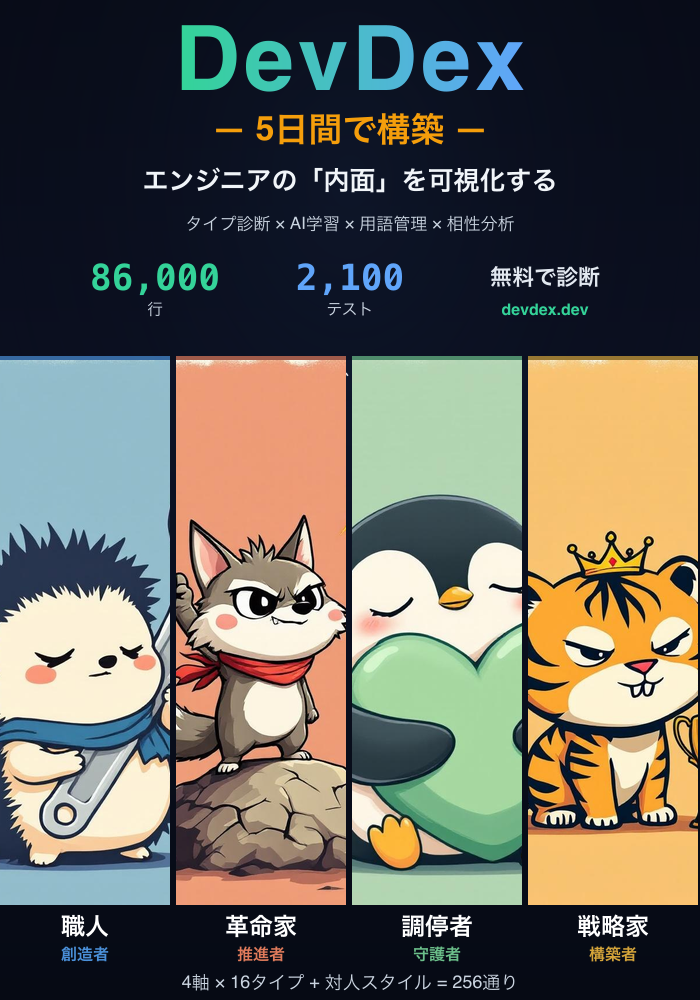
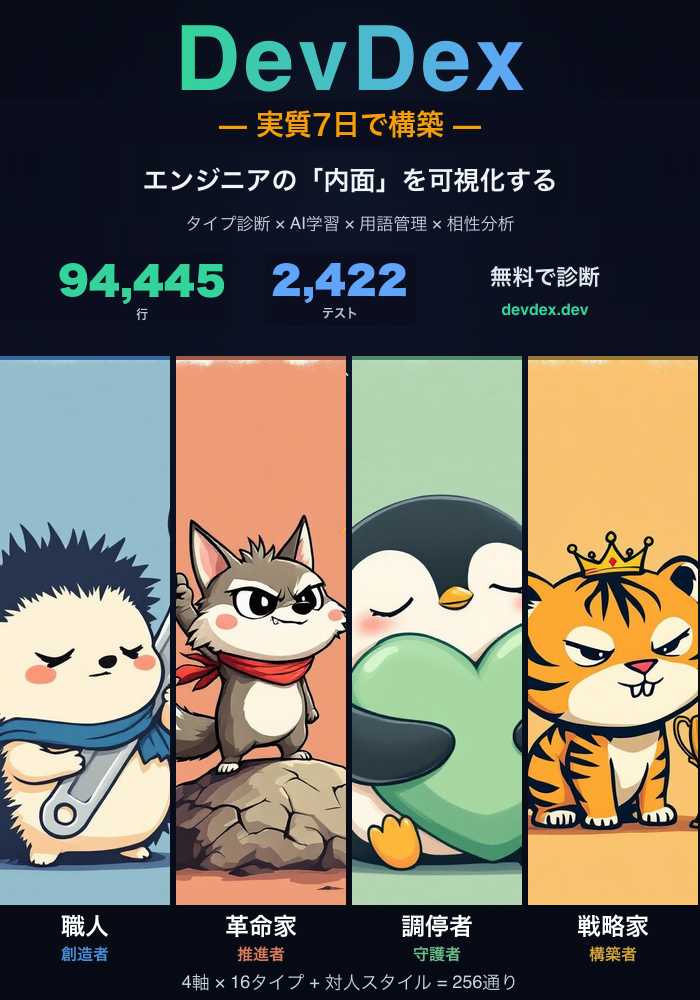
docs: DevDex最新統計に数値更新（96K行・2,350テスト・637+ Issues/PRs）

Changed region(s): [[0.3, 0.093, 0.69, 0.155], [0.09, 0.248, 0.33, 0.31], [0.39, 0.248, 0.6, 0.341]]

diff --git a/books/claude-code-devdex/01-what-is-devdex.md b/books/claude-code-devdex/01-what-is-devdex.md
@@ -3,11 +3,11 @@ title: "DevDexとは何か"
 free: true
 ---
 
-## 5日間・76時間で87,000行のSaaSを作った
+## 7日間・78時間で96,000行のSaaSを作った
 
 高校中退、通信制高校、専門卒。有名企業の勤務経験なし。25歳でフリーランスとして独立し、ダーツのプロ選手でもある。
 
-そんな経歴の人間が、Claude Codeのサブエージェント6体制を使って、**5日間・76時間**で64 API・33ページ・2,111テスト・127コンポーネントのフルスタックSaaSを構築した。1日15時間超の開発を続け、Day 4-5はダーツプロイベントの合間にスマホからClaude Codeへ指示を出しながら開発を進めた。
+そんな経歴の人間が、Claude Codeのサブエージェント6体制を使って、**7日間・78時間**で62 API・35ページ・2,350テスト・169コンポーネントのフルスタックSaaSを構築した。1日15時間超の開発を続け、Day 4-5はダーツプロイベントの合間にスマホからClaude Codeへ指示を出しながら開発を進めた。
 
 この書籍は、その全工程の記録だ。
 
@@ -31,11 +31,11 @@ DevDexは、その「内面」を管理するツールだ。IT用語ひとつひ
 
 | 指標 | DevDex | 個人開発の相場 |
 |---|---|---|
-| APIエンドポイント | 64本 | 10〜20本 |
-| ページ数 | 33画面 | 5〜15画面 |
-| ユニットテスト | 2,111件 | 0〜300件 |
-| DBマイグレーション | 35本 | 5〜10本 |
-| マージ済みPR | 568+件 | — |
+| APIエンドポイント | 62本 | 10〜20本 |
+| ページ数 | 35画面 | 5〜15画面 |
+| ユニットテスト | 2,350件 | 0〜300件 |
+| DBマイグレーション | 40本 | 5〜10本 |
+| Issues/PRs | 637+件 | — |
 
 加えて、エンジニアタイプ診断は16タイプ × 16 MBTI = 256パターン、ロール設計は個人3種類 + 組織4種類。toC × toBの両面を持つSaaSとしてはフル装備に近い。
 
@@ -75,12 +75,12 @@ DevDexは2作目のフルスタックWebアプリだ。1作目の「ダーツラ
 | フレームワーク | Next.js (Pages Router) | Next.js 16 (App Router) |
 | DB/Auth | Firebase (Firestore + Auth) | Supabase (PostgreSQL + RLS) |
 | UI | MUI | shadcn/ui + Tailwind CSS v4 |
-| テスト | Jest / 300件（手動設計） | Vitest 4 / 2,111件（Agent自動生成） |
+| テスト | Jest / 300件（手動設計） | Vitest 4 / 2,350件（Agent自動生成） |
 | 開発体制 | Claude Codeとペアプロ | サブエージェント6体制 |
 | 意思決定記録 | なし（脳内 + チャット履歴） | 25件（docs/decisions/で構造化） |
-| PR数 | 約50件 | 568+件 |
+| Issues/PRs | 約50件 | 637+件 |
 
-最大の変化は開発手法だ。前作では「Claude Codeと一緒にコードを書く」だったのが、今作では「エージェントチームにプロジェクトを任せる」に進化した。テスト数が300→2,111に跳ね上がったのも、実装者とテスト作成者が分離されたからだ。この書籍のメインテーマはまさにここにある。
+最大の変化は開発手法だ。前作では「Claude Codeと一緒にコードを書く」だったのが、今作では「エージェントチームにプロジェクトを任せる」に進化した。テスト数が300→2,350に跳ね上がったのも、実装者とテスト作成者が分離されたからだ。この書籍のメインテーマはまさにここにある。
 
 ![サブエージェント6体制の構成図](/images/devdex-subagent-flow.png)
 *6つのエージェントが役割分担し、人間は「方向性を決める」「判断を承認する」「最終確認する」の3つだけ*

diff --git a/books/claude-code-devdex/04-implement-agent.md b/books/claude-code-devdex/04-implement-agent.md
@@ -88,7 +88,7 @@ Implement Agentの作業フローは厳格に定まっている。
 
 なぜここまで厳格にするのか。Claude Codeは指示がなければ効率を優先して、複数の変更を1つのコミットにまとめたり、mainに直接コミットしたりする。これを防ぐには、ルールを明文化してCLAUDE.mdに書くしかない。
 
-DevDexでは568+件のPRがマージされた。すべてが1 Issue = 1 PRの原則を守っている。この一貫性がReview Agentのレビュー品質を支えた。レビュー対象が小さければ、見落としも少なくなる。
+DevDexでは637+件のPRがマージされた。すべてが1 Issue = 1 PRの原則を守っている。この一貫性がReview Agentのレビュー品質を支えた。レビュー対象が小さければ、見落としも少なくなる。
 
 ## 実装前の必須チェック: format / lint / test / build
 
@@ -329,7 +329,7 @@ refactor: Supabaseクライアントの共通化
 
 ---
 
-Implement Agentがコードを書いたら、次はTest Agentの出番だ。第5章では「コードを編集できないテストエンジニア」が、2,111件のテストをどう書いたかを解説する。
+Implement Agentがコードを書いたら、次はTest Agentの出番だ。第5章では「コードを編集できないテストエンジニア」が、2,350件のテストをどう書いたかを解説する。
 
 :::message
 **あなたのエンジニアタイプを診断してみませんか？**

diff --git a/books/claude-code-devdex/10-conclusion.md b/books/claude-code-devdex/10-conclusion.md
@@ -6,11 +6,11 @@ title: "まとめ -- AI駆動開発のメリット・デメリット"
 
 ### 1. 開発速度が桁違い
 
-5日間で64 APIエンドポイント、33ページ、2,111テストのSaaSを構築できた。従来の開発では数ヶ月かかる規模だ。速さの本質は「コードを書く速度」ではなく「判断→実装→検証のサイクルが速い」こと。
+5日間で62 APIエンドポイント、35ページ、2,350テストのSaaSを構築できた。従来の開発では数ヶ月かかる規模だ。速さの本質は「コードを書く速度」ではなく「判断→実装→検証のサイクルが速い」こと。
 
 ### 2. 品質が安定する
 
-Test AgentとReview Agentが毎回同じ基準でチェックするため、人間の疲労や気分に左右されない。2,111テストの網羅性も、人間一人では到達しにくい水準。
+Test AgentとReview Agentが毎回同じ基準でチェックするため、人間の疲労や気分に左右されない。2,350テストの網羅性も、人間一人では到達しにくい水準。
 
 ### 3. ドキュメントが自動で残る
 

diff --git a/books/claude-code-devdex/02-subagent-design.md b/books/claude-code-devdex/02-subagent-design.md
@@ -270,8 +270,8 @@ Phase 6: 認証              → 1 issue
 
 ### Test Agentの成果
 
-- ユニットテストファイル: 150ファイル
-- テスト数: 2,111件（v0: 403件 → v1完了: 496件 → v3完了: 1,316件 → 公開準備: 1,407件 → 機能追加: 1,813件 → **品質強化: 2,111件**）
+- ユニットテストファイル: 171ファイル
+- テスト数: 2,350件（v0: 403件 → v1完了: 496件 → v3完了: 1,316件 → 公開準備: 1,407件 → 機能追加: 1,813件 → **品質強化: 2,350件**）
 - テストカバレッジ: API Route、ユーティリティ関数、コンポーネントを網羅
 
 ### Review Agentの成果
@@ -291,7 +291,7 @@ Critical な指摘なし。Warning 3件は現フェーズで許容範囲。
 
 ### 全体の実装速度
 
-- 総PR数: 568+件（マージ済み）
+- 総PR数: 637+件（マージ済み）
 - v0 MVP: 14 issue、実働3〜4日
 - 1 issue あたりの平均: 1〜2時間
 

diff --git a/books/claude-code-devdex/08-prompt-design.md b/books/claude-code-devdex/08-prompt-design.md
@@ -184,7 +184,7 @@ DevDexのMEMORY.mdには以下の情報を記録した。
 - Admin: mt.oikawa@gmail.com / DevDex2026prod
 
 ## 開発状況
-- v0〜v3実装完了: 64 API / 33ページ / 2,111テスト / 35マイグレーション
+- v0〜v3実装完了: 62 API / 35ページ / 2,350テスト / 40マイグレーション
 ```
 
 MEMORY.mdの最大の価値は、CLAUDE.mdに書ききれない「運用知識」を保持できることだ。本番環境のURL、テストユーザーの認証情報、Supabaseのアクセストークン。これらはプロジェクトの設計情報ではないが、開発作業には不可欠な情報だ。

diff --git a/books/claude-code-devdex/06-review-agent.md b/books/claude-code-devdex/06-review-agent.md
@@ -213,7 +213,7 @@ DevDexの公開前に実施した最終レビュー（`2026-03-13-pre-release-re
 - 64 APIルートハンドラー
 - 80+ コンポーネント
 - 50+ ライブラリファイル
-- 150 テストファイル（2,111テストケース）
+- 150 テストファイル（2,350テストケース）
 - 34 データベースマイグレーション
 ```
 
